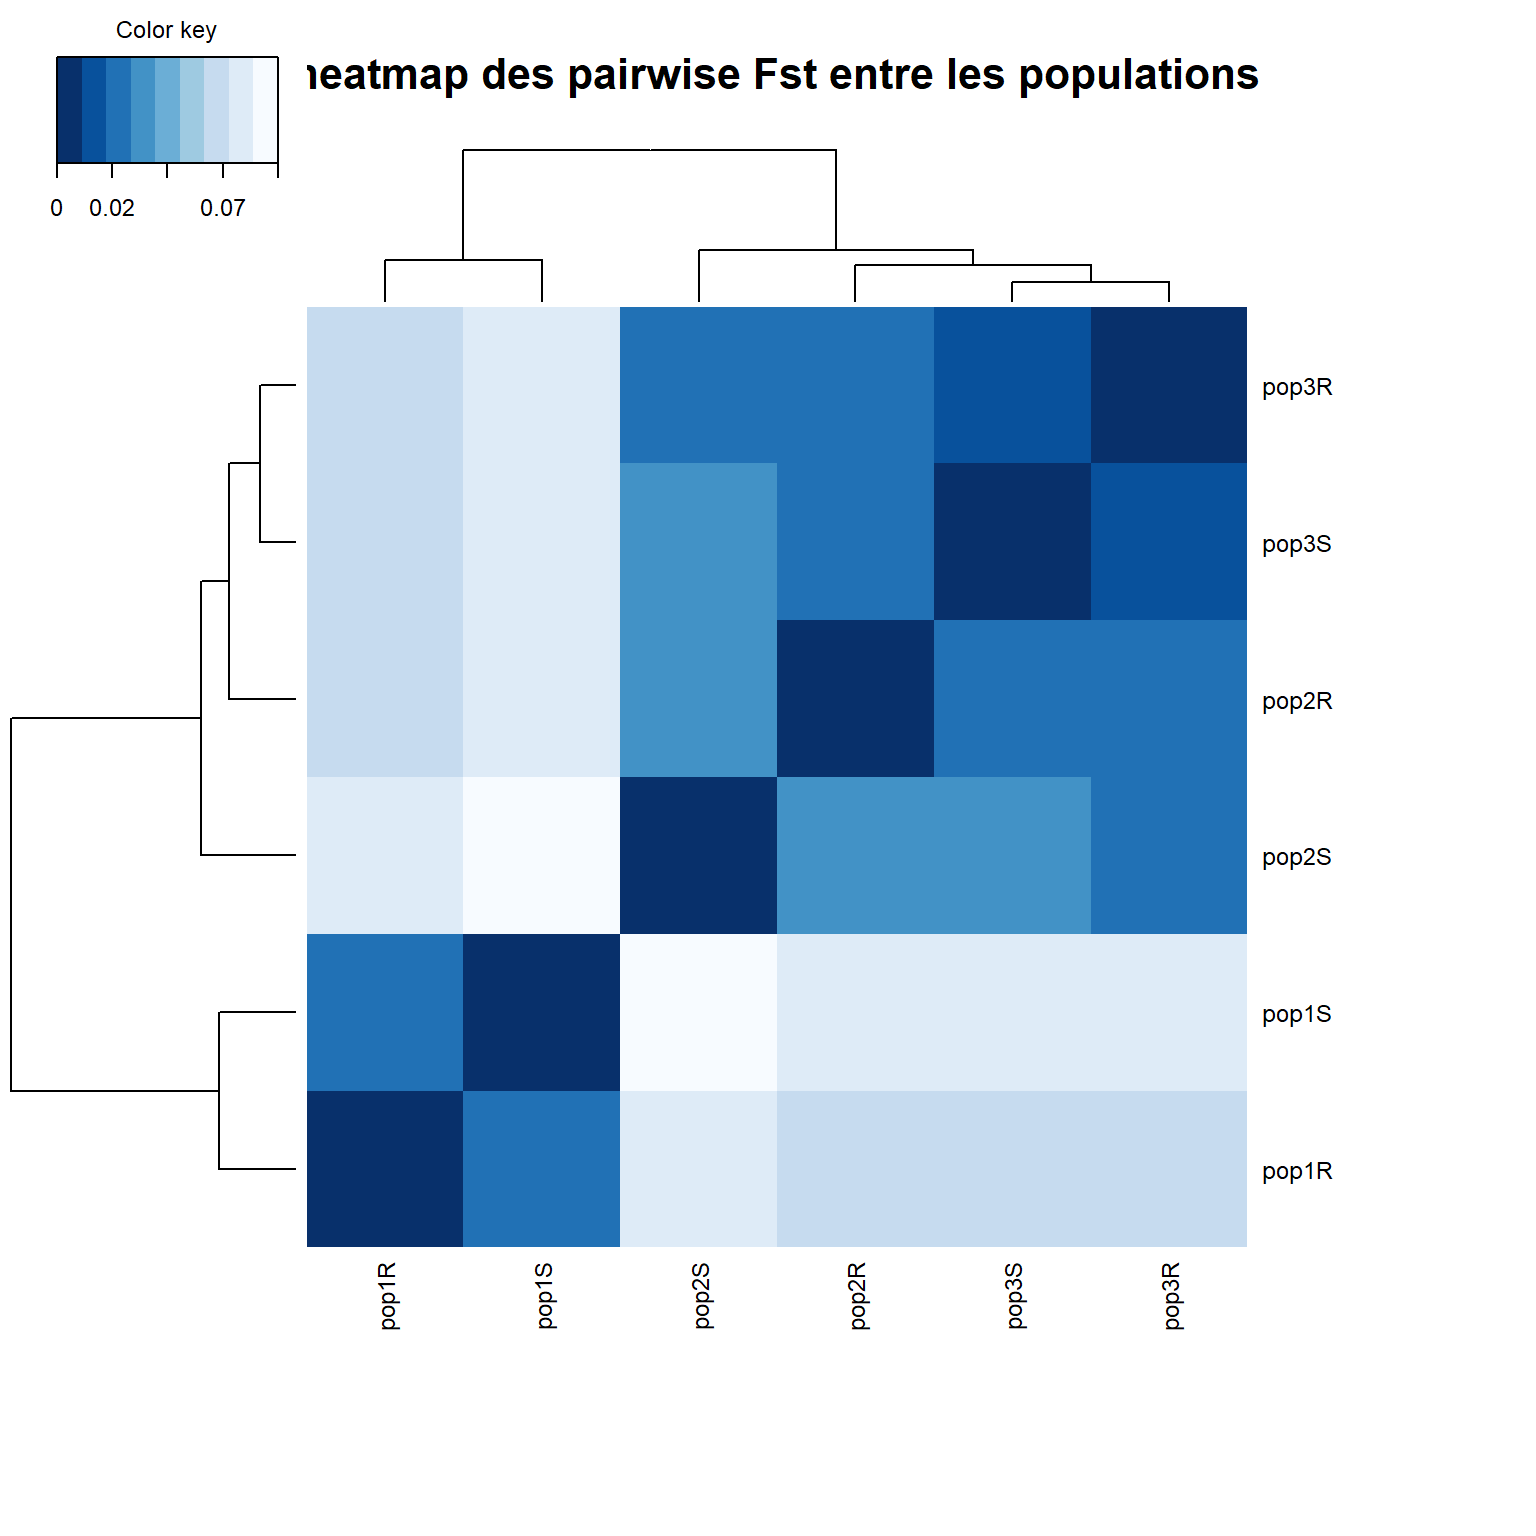
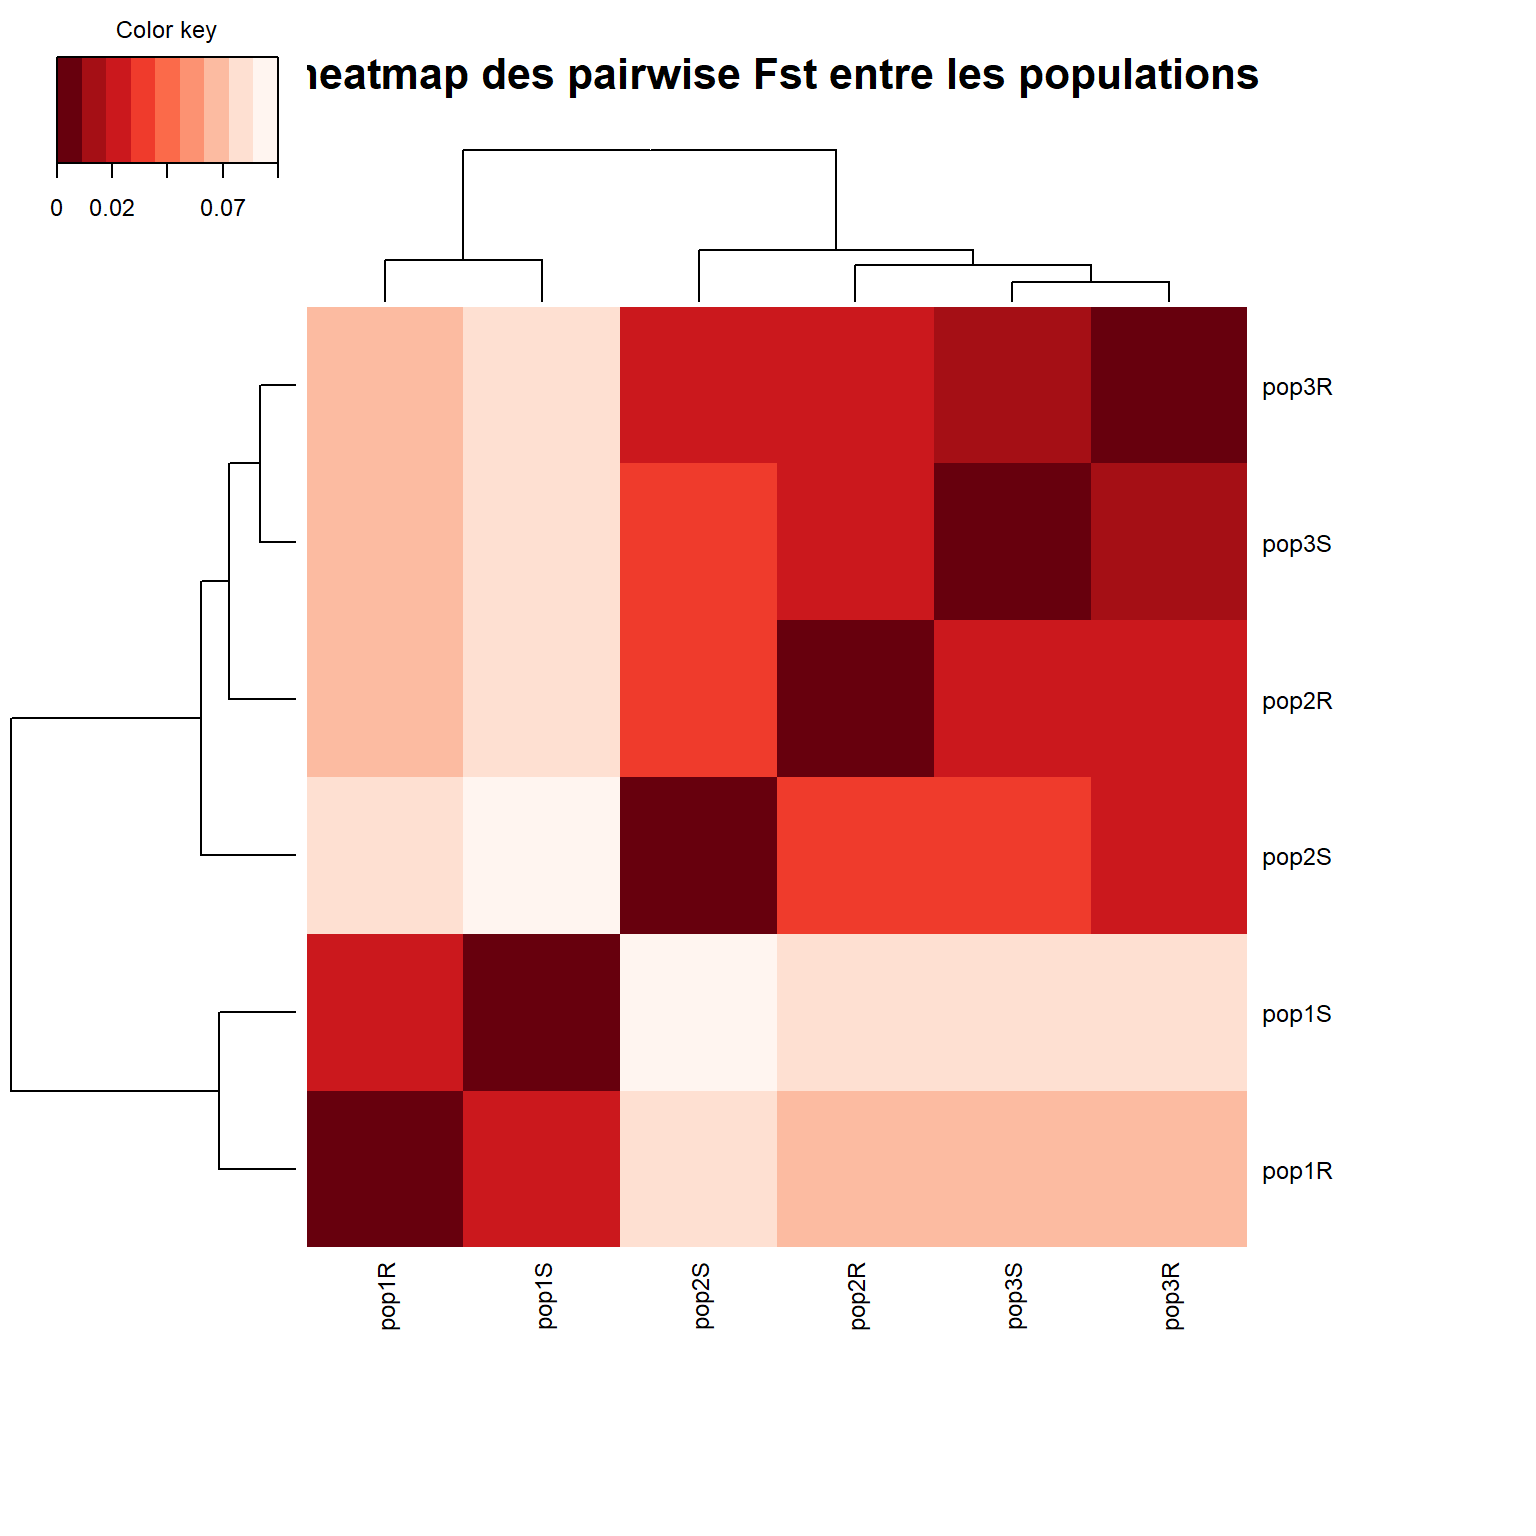
maj

diff --git a/docs/données-brutes.html b/docs/données-brutes.html
@@ -29,7 +29,7 @@ set in the _output.yml file.</p>" />
 <meta name="author" content="Jérôme OLIVARES" />
 
 
-<meta name="date" content="2023-09-19" />
+<meta name="date" content="2023-09-20" />
 
   <meta name="viewport" content="width=device-width, initial-scale=1" />
   <meta name="apple-mobile-web-app-capable" content="yes" />
@@ -152,7 +152,7 @@ div.csl-indent {
 }
 </style>
 
-<link rel="stylesheet" href="my_style.css" type="text/css" />
+<link rel="stylesheet" href="style.css" type="text/css" />
 </head>
 
 <body>
@@ -354,11 +354,11 @@ min.maf = fréquence allélique minimale autorisée pour l’allèle minoritaire
 <span id="cb8-7"><a href="données-brutes.html#cb8-7" tabindex="-1"></a>                                    <span class="at">output.snp.values =</span> <span class="cn">FALSE</span>,</span>
 <span id="cb8-8"><a href="données-brutes.html#cb8-8" tabindex="-1"></a>                                    <span class="at">verbose =</span> <span class="cn">FALSE</span>)</span></code></pre></div>
 <pre class="bg-output"><code>## 
-## Overall Analysis Time: 0 h 0 m 6 s</code></pre>
+## Overall Analysis Time: 0 h 0 m 5 s</code></pre>
 <div class="sourceCode" id="cb10"><pre class="sourceCode r bg-chunk"><code class="sourceCode r"><span id="cb10-1"><a href="données-brutes.html#cb10-1" tabindex="-1"></a><span class="co">#conversion en matrice de distance</span></span>
 <span id="cb10-2"><a href="données-brutes.html#cb10-2" tabindex="-1"></a>df <span class="ot">&lt;-</span> <span class="fu">as.matrix</span>(<span class="fu">dist</span>(<span class="fu">t</span>(PairWise.fst<span class="sc">@</span>PairwiseFSTmatrix)))</span>
 <span id="cb10-3"><a href="données-brutes.html#cb10-3" tabindex="-1"></a><span class="co">#heatmap</span></span>
-<span id="cb10-4"><a href="données-brutes.html#cb10-4" tabindex="-1"></a>cim_color <span class="ot">&lt;-</span> <span class="fu">colorRampPalette</span>(<span class="fu">rev</span>(<span class="fu">brewer.pal</span>(<span class="dv">9</span>, <span class="st">&quot;Blues&quot;</span>)))(<span class="dv">9</span>)</span>
+<span id="cb10-4"><a href="données-brutes.html#cb10-4" tabindex="-1"></a>cim_color <span class="ot">&lt;-</span> <span class="fu">colorRampPalette</span>(<span class="fu">rev</span>(<span class="fu">brewer.pal</span>(<span class="dv">9</span>, <span class="st">&quot;Reds&quot;</span>)))(<span class="dv">9</span>)</span>
 <span id="cb10-5"><a href="données-brutes.html#cb10-5" tabindex="-1"></a><span class="fu">cim</span>(df, <span class="at">color =</span> cim_color, <span class="at">symkey =</span> <span class="cn">FALSE</span>, <span class="at">margins =</span> <span class="fu">c</span>(<span class="dv">10</span>, <span class="dv">10</span>),  <span class="at">title =</span> <span class="st">&quot;heatmap des pairwise Fst entre les populations&quot;</span>)</span></code></pre></div>
 <p><img src="BayPass_Fr_files/figure-html/heatmap-PW-fst-1.png" width="768" /></p>
 <p>un exemple d’estimation de la structure génétique des populations déduite des Fst est donné en <a href="#An1">Annexe 1</a></p>

diff --git a/BayPass_Fr.html b/BayPass_Fr.html
@@ -534,7 +534,7 @@ pooldata &lt;- vcf2pooldata(vcf.file = paste(path_vcf, &quot;test_data.vcf.gz&qu
 ## (N.B., positions with more than one alternate allele will be ignored)
 ## Parsing allele counts
 ## 1e+06  lines processed in 0 h  0 m  19 s : 577119 SNPs found
-## 1810324  lines processed in 0 h  0 m  32 s : 1066980 SNPs found
+## 1810324  lines processed in 0 h  0 m  33 s : 1066980 SNPs found
 ## Data consists of 1066980 SNPs for 6 Pools</code></pre>
 <pre class="r bg-chunk"><code>#élimine le 1% supérieur considéré comme trop fortement couvert
 #(région très dupliquée, biais de séquençage...)
@@ -553,7 +553,7 @@ PairWise.fst &lt;- compute.pairwiseFST(pooldata,
                                     output.snp.values = FALSE,
                                     verbose = FALSE)</code></pre>
 <pre class="bg-output"><code>## 
-## Overall Analysis Time: 0 h 0 m 6 s</code></pre>
+## Overall Analysis Time: 0 h 0 m 5 s</code></pre>
 <pre class="r bg-chunk"><code>#conversion en matrice de distance
 df &lt;- as.matrix(dist(t(PairWise.fst@PairwiseFSTmatrix)))
 #heatmap

diff --git a/docs/index.html b/docs/index.html
@@ -29,7 +29,7 @@ set in the _output.yml file.</p>" />
 <meta name="author" content="Jérôme OLIVARES" />
 
 
-<meta name="date" content="2023-09-19" />
+<meta name="date" content="2023-09-20" />
 
   <meta name="viewport" content="width=device-width, initial-scale=1" />
   <meta name="apple-mobile-web-app-capable" content="yes" />
@@ -152,7 +152,7 @@ div.csl-indent {
 }
 </style>
 
-<link rel="stylesheet" href="my_style.css" type="text/css" />
+<link rel="stylesheet" href="style.css" type="text/css" />
 </head>
 
 <body>
@@ -230,7 +230,7 @@ div.csl-indent {
 <div id="header">
 <h1 class="title">BayPass 2.3: tutoriel de génomique d’association adapté au séquençage en pool</h1>
 <p class="author"><em>Jérôme OLIVARES<a href="#fn1" class="footnote-ref" id="fnref1"><sup>1</sup></a></em></p>
-<p class="date"><em>2023-09-19</em></p>
+<p class="date"><em>2023-09-20</em></p>
 </div>
 <div id="résumé" class="section level1 unnumbered hasAnchor">
 <h1>Résumé<a href="index.html#résumé" class="anchor-section" aria-label="Anchor link to header"></a></h1>

diff --git a/docs/404.html b/docs/404.html
@@ -29,7 +29,7 @@ set in the _output.yml file.</p>" />
 <meta name="author" content="Jérôme OLIVARES" />
 
 
-<meta name="date" content="2023-09-19" />
+<meta name="date" content="2023-09-20" />
 
   <meta name="viewport" content="width=device-width, initial-scale=1" />
   <meta name="apple-mobile-web-app-capable" content="yes" />
@@ -152,7 +152,7 @@ div.csl-indent {
 }
 </style>
 
-<link rel="stylesheet" href="my_style.css" type="text/css" />
+<link rel="stylesheet" href="style.css" type="text/css" />
 </head>
 
 <body>

diff --git a/docs/baypass-lanalyse-poolseq.html b/docs/baypass-lanalyse-poolseq.html
@@ -29,7 +29,7 @@ set in the _output.yml file.</p>" />
 <meta name="author" content="Jérôme OLIVARES" />
 
 
-<meta name="date" content="2023-09-19" />
+<meta name="date" content="2023-09-20" />
 
   <meta name="viewport" content="width=device-width, initial-scale=1" />
   <meta name="apple-mobile-web-app-capable" content="yes" />
@@ -152,7 +152,7 @@ div.csl-indent {
 }
 </style>
 
-<link rel="stylesheet" href="my_style.css" type="text/css" />
+<link rel="stylesheet" href="style.css" type="text/css" />
 </head>
 
 <body>

diff --git a/docs/baypass-les-résultats.html b/docs/baypass-les-résultats.html
@@ -29,7 +29,7 @@ set in the _output.yml file.</p>" />
 <meta name="author" content="Jérôme OLIVARES" />
 
 
-<meta name="date" content="2023-09-19" />
+<meta name="date" content="2023-09-20" />
 
   <meta name="viewport" content="width=device-width, initial-scale=1" />
   <meta name="apple-mobile-web-app-capable" content="yes" />
@@ -152,7 +152,7 @@ div.csl-indent {
 }
 </style>
 
-<link rel="stylesheet" href="my_style.css" type="text/css" />
+<link rel="stylesheet" href="style.css" type="text/css" />
 </head>
 
 <body>

diff --git a/docs/conversion-du-pooldata-en-fichiers-dentrées-pour-baypass.html b/docs/conversion-du-pooldata-en-fichiers-dentrées-pour-baypass.html
@@ -29,7 +29,7 @@ set in the _output.yml file.</p>" />
 <meta name="author" content="Jérôme OLIVARES" />
 
 
-<meta name="date" content="2023-09-19" />
+<meta name="date" content="2023-09-20" />
 
   <meta name="viewport" content="width=device-width, initial-scale=1" />
   <meta name="apple-mobile-web-app-capable" content="yes" />
@@ -152,7 +152,7 @@ div.csl-indent {
 }
 </style>
 
-<link rel="stylesheet" href="my_style.css" type="text/css" />
+<link rel="stylesheet" href="style.css" type="text/css" />
 </head>
 
 <body>

diff --git a/docs/exploitation-des-résultats.html b/docs/exploitation-des-résultats.html
@@ -29,7 +29,7 @@ set in the _output.yml file.</p>" />
 <meta name="author" content="Jérôme OLIVARES" />
 
 
-<meta name="date" content="2023-09-19" />
+<meta name="date" content="2023-09-20" />
 
   <meta name="viewport" content="width=device-width, initial-scale=1" />
   <meta name="apple-mobile-web-app-capable" content="yes" />
@@ -152,7 +152,7 @@ div.csl-indent {
 }
 </style>
 
-<link rel="stylesheet" href="my_style.css" type="text/css" />
+<link rel="stylesheet" href="style.css" type="text/css" />
 </head>
 
 <body>

diff --git a/docs/introduction.html b/docs/introduction.html
@@ -29,7 +29,7 @@ set in the _output.yml file.</p>" />
 <meta name="author" content="Jérôme OLIVARES" />
 
 
-<meta name="date" content="2023-09-19" />
+<meta name="date" content="2023-09-20" />
 
   <meta name="viewport" content="width=device-width, initial-scale=1" />
   <meta name="apple-mobile-web-app-capable" content="yes" />
@@ -152,7 +152,7 @@ div.csl-indent {
 }
 </style>
 
-<link rel="stylesheet" href="my_style.css" type="text/css" />
+<link rel="stylesheet" href="style.css" type="text/css" />
 </head>
 
 <body>

diff --git a/docs/présentation-du-logiciel-baypass-2.html b/docs/présentation-du-logiciel-baypass-2.html
@@ -29,7 +29,7 @@ set in the _output.yml file.</p>" />
 <meta name="author" content="Jérôme OLIVARES" />
 
 
-<meta name="date" content="2023-09-19" />
+<meta name="date" content="2023-09-20" />
 
   <meta name="viewport" content="width=device-width, initial-scale=1" />
   <meta name="apple-mobile-web-app-capable" content="yes" />
@@ -152,7 +152,7 @@ div.csl-indent {
 }
 </style>
 
-<link rel="stylesheet" href="my_style.css" type="text/css" />
+<link rel="stylesheet" href="style.css" type="text/css" />
 </head>
 
 <body>

diff --git a/docs/références.html b/docs/références.html
@@ -29,7 +29,7 @@ set in the _output.yml file.</p>" />
 <meta name="author" content="Jérôme OLIVARES" />
 
 
-<meta name="date" content="2023-09-19" />
+<meta name="date" content="2023-09-20" />
 
   <meta name="viewport" content="width=device-width, initial-scale=1" />
   <meta name="apple-mobile-web-app-capable" content="yes" />
@@ -152,7 +152,7 @@ div.csl-indent {
 }
 </style>
 
-<link rel="stylesheet" href="my_style.css" type="text/css" />
+<link rel="stylesheet" href="style.css" type="text/css" />
 </head>
 
 <body>
